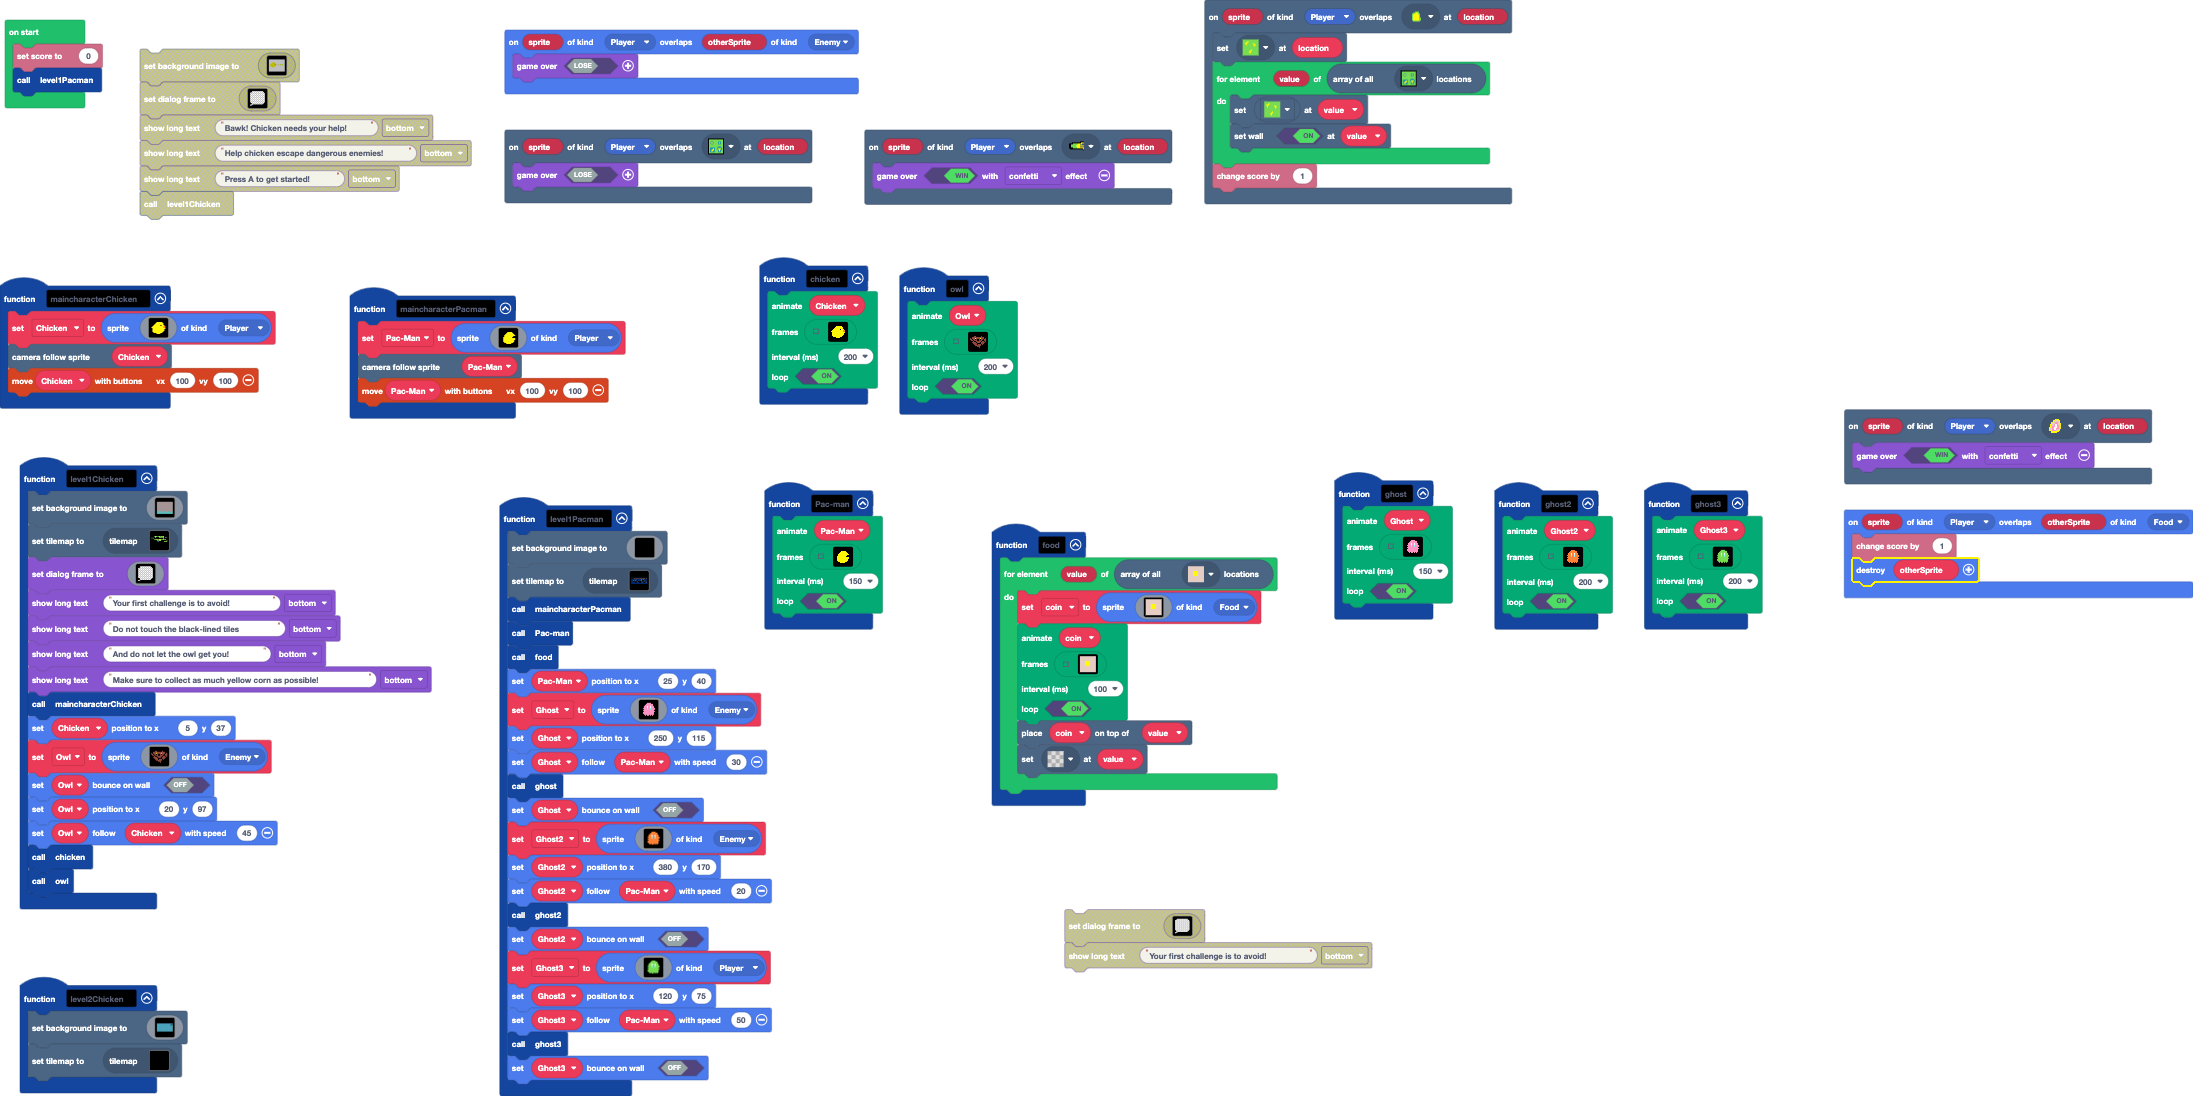
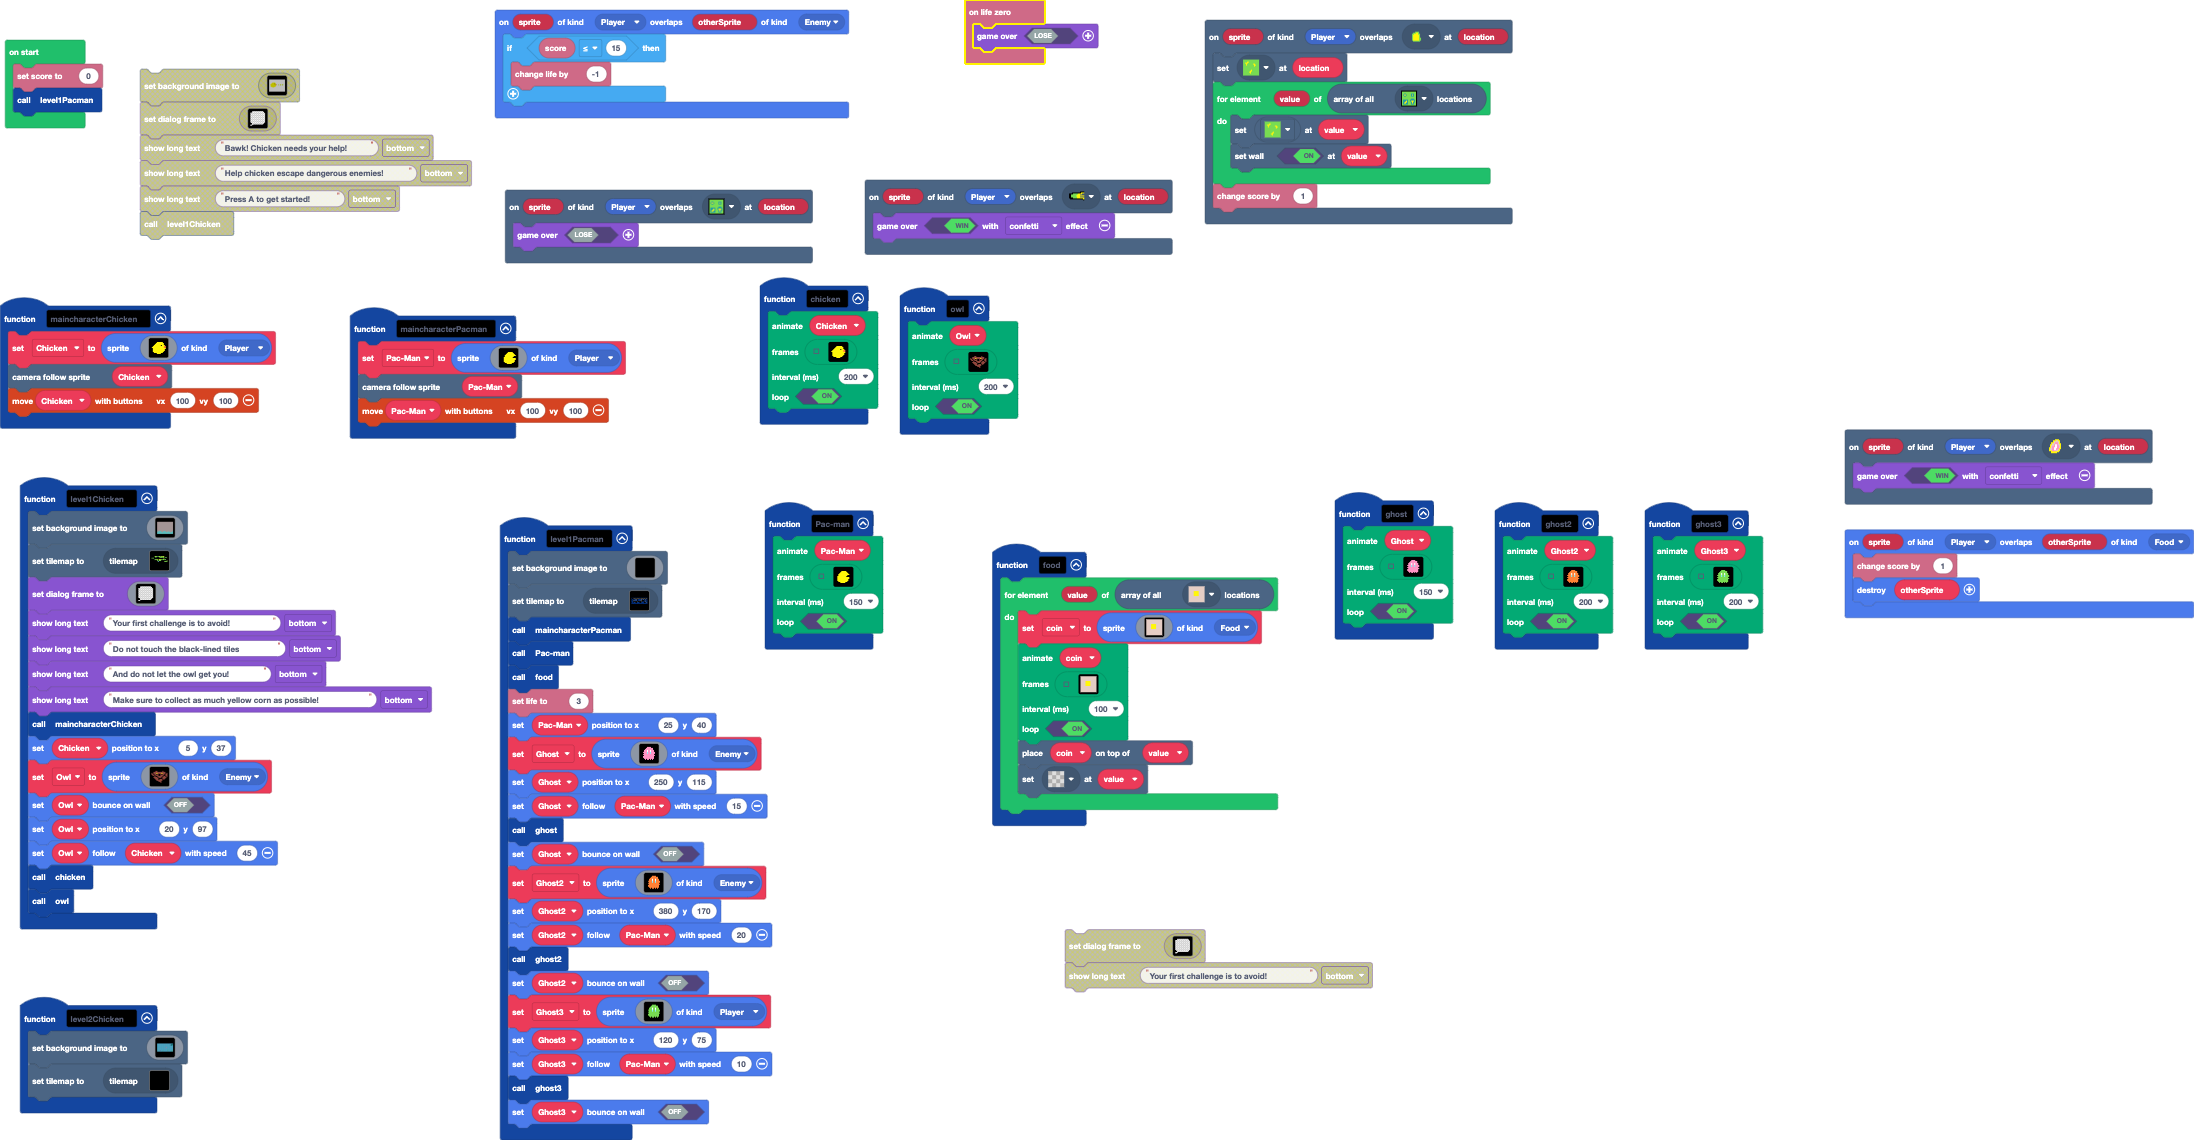
Update main.blocks, main.ts, images.g.jres

diff --git a/main.ts b/main.ts
@@ -215,6 +215,9 @@ function maincharacterPacman () {
 scene.onOverlapTile(SpriteKind.Player, assets.tile`myTile2`, function (sprite, location) {
     game.over(true, effects.confetti)
 })
+info.onLifeZero(function () {
+    game.over(false)
+})
 scene.onOverlapTile(SpriteKind.Player, assets.tile`goincoldlevel1`, function (sprite, location) {
     tiles.setTileAt(location, assets.tile`goldcoingrasslevel1`)
     for (let value of tiles.getTilesByType(assets.tile`dangeroustilelevel1`)) {
@@ -250,10 +253,11 @@ function level1Pacman () {
     maincharacterPacman()
     Pacman()
     food()
+    info.setLife(3)
     PacMan.setPosition(25, 40)
     Ghost = sprites.create(assets.image`ghost1pacman`, SpriteKind.Enemy)
     Ghost.setPosition(250, 115)
-    Ghost.follow(PacMan, 30)
+    Ghost.follow(PacMan, 15)
     ghost()
     Ghost.setBounceOnWall(false)
     Ghost2 = sprites.create(assets.image`ghost2pacman`, SpriteKind.Enemy)
@@ -263,7 +267,7 @@ function level1Pacman () {
     Ghost2.setBounceOnWall(false)
     Ghost3 = sprites.create(assets.image`ghost3pacman`, SpriteKind.Player)
     Ghost3.setPosition(120, 75)
-    Ghost3.follow(PacMan, 50)
+    Ghost3.follow(PacMan, 10)
     ghost3()
     Ghost3.setBounceOnWall(false)
 }
@@ -339,7 +343,9 @@ function level2Chicken () {
     tiles.setCurrentTilemap(tilemap`level2`)
 }
 sprites.onOverlap(SpriteKind.Player, SpriteKind.Enemy, function (sprite, otherSprite) {
-    game.over(false)
+    if (info.score() <= 15) {
+        info.changeLifeBy(-1)
+    }
 })
 let Ghost3: Sprite = null
 let Owl: Sprite = null
